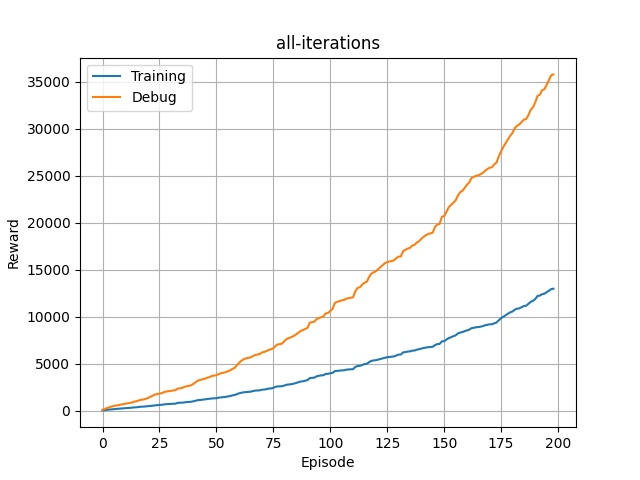
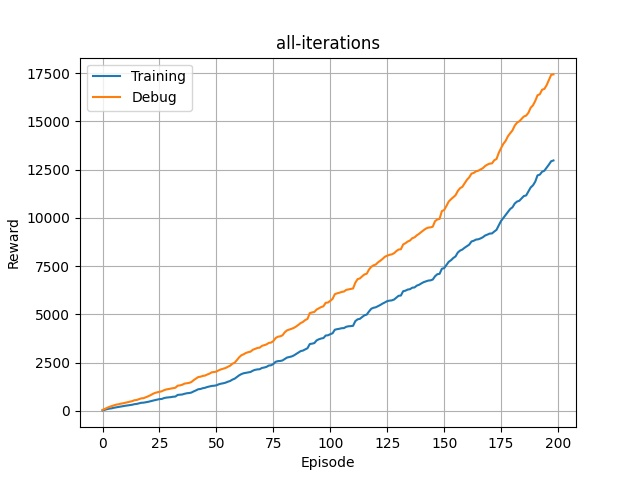
dlcf@home

diff --git a/model8.py b/model8.py
@@ -2,6 +2,9 @@ import math
 
 
 def reward_function(params):
+
+    steps_for_track_direction = 1
+
     # Read all input parameters
     all_wheels_on_track = params['all_wheels_on_track']
     x = params['x']
@@ -28,15 +31,26 @@ def reward_function(params):
 
     # speed reward
     speed_reward = 1e-3
-    prev_point = waypoints[closest_waypoints[0]]
-    next_point = waypoints[closest_waypoints[1]]
+
+    pp = len(waypoints) + closest_waypoints[0] - steps_for_track_direction
+    pp = divmod(pp, len(waypoints))[1]
+    np = closest_waypoints[0] + steps_for_track_direction
+    np = divmod(np, len(waypoints))[1]
+    prev_point = waypoints[pp]
+    next_point = waypoints[np]
+
     track_direction = math.atan2(next_point[1] - prev_point[1], next_point[0] - prev_point[0])
     direction_diff = heading - track_direction
     if abs(direction_diff) <= 30:
-        speed_reward = speed * max(1e-3,math.cos(math.radians(direction_diff)) * math.cos(math.radians(steering_angle)))
+        speed_reward = speed * max(1e-3, math.cos(math.radians(direction_diff)) * math.cos(math.radians(steering_angle)))
     else:
         speed_reward = 1e-3
     reward += speed_reward
+
+    if abs(steering_angle) > 15:
+        reward = 1e-1
+    else:
+        reward += math.cos(math.radians(steering_angle))
 
     # off track check
     if not all_wheels_on_track:

diff --git a/model6.py b/model6.py
@@ -4,8 +4,8 @@ import math
 def reward_function(params):
     # Define constants
     standard_speed = 1.5
-    optimal_speed = 1.8
-    fastest_speed = 2.2
+    optimal_speed = 2.0
+    fastest_speed = 2.5
     track_length = 17.71
     laps = 3
 
@@ -77,6 +77,13 @@ def reward_function(params):
         direction_diff = 360 - direction_diff
     if direction_diff > 30:
         reward = 1e-3
+    else:
+        reward += math.cos(math.radians(direction_diff))
+
+    if abs(steering_angle) > 15:
+        reward = 1e-3
+    else:
+        reward += math.cos(math.radians(steering_angle))
 
     # Zero reward of obviously too slow
     speed_diff_zero = optimal_speed - speed
